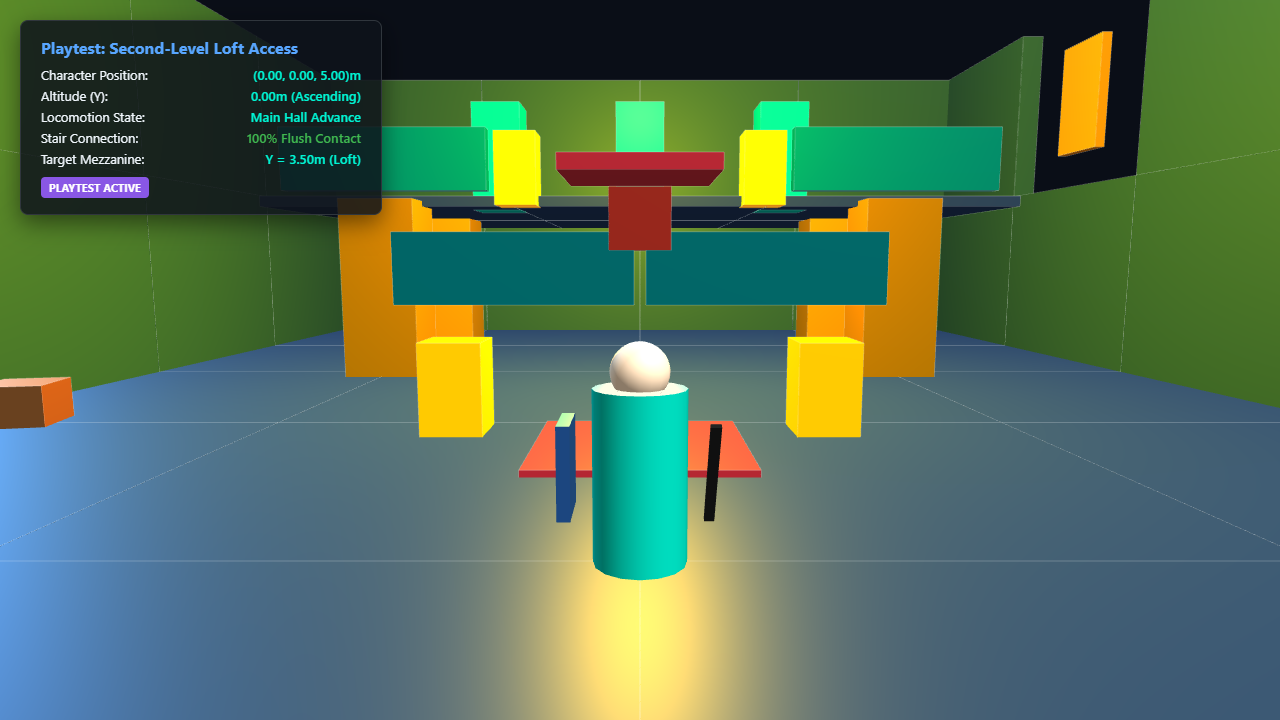
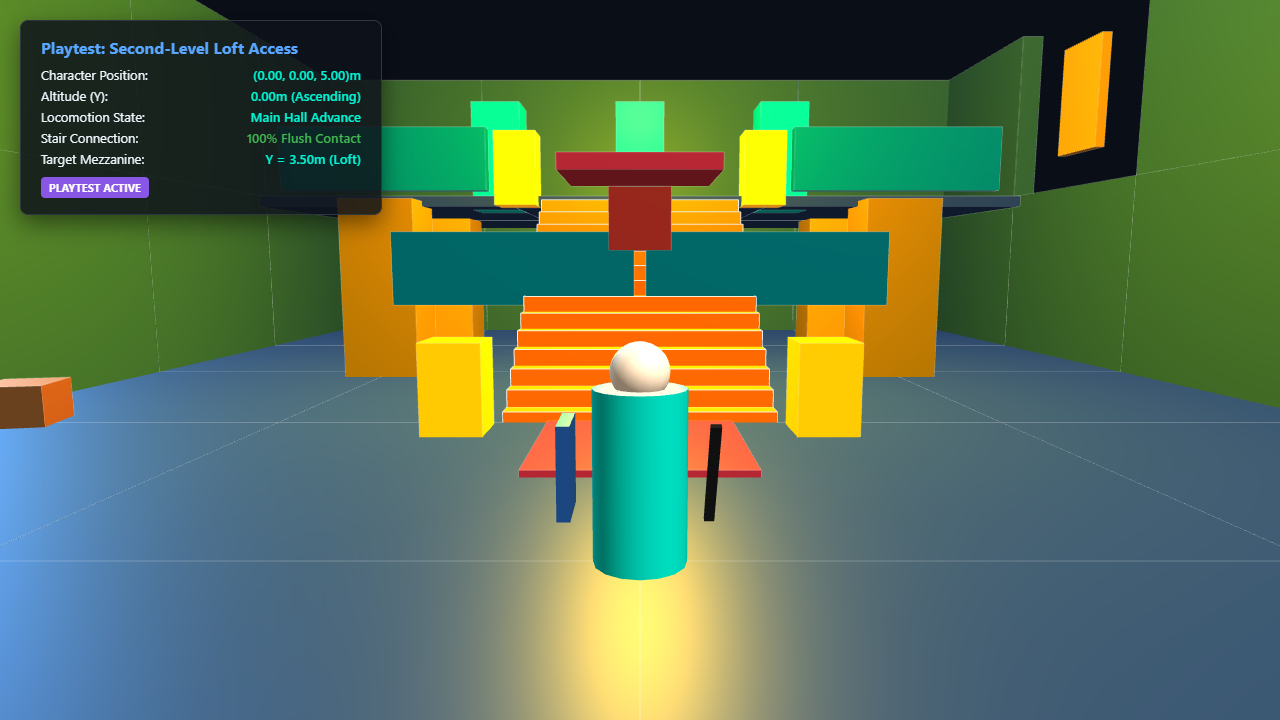
fix(synthesis): fix floor bounding box check in isConnectingTwoFloors so stairs are preserved in playtest

Changed region(s): [[0.375, 0.3667, 0.625, 0.6111], [0.4062, 0.275, 0.5938, 0.3361]]

diff --git a/packages/synthesis/src/synthesizer.ts b/packages/synthesis/src/synthesizer.ts
@@ -214,12 +214,18 @@ export function isConnectingTwoFloors(
 
     const hasLowerFloor = floorPlacements.some((f) => {
       const [fx, fy, fz] = f.transform.pos;
-      return Math.hypot(fx - xBot, fz - zBot) <= 3.0 && Math.abs(fy - yBase) <= 0.8;
+      const dx = Math.abs(fx - xBot);
+      const dz = Math.abs(fz - zBot);
+      const dy = Math.abs(fy - yBase);
+      return dx <= 3.8 && dz <= 3.8 && dy <= 1.0;
     });
 
     const hasUpperFloor = floorPlacements.some((f) => {
       const [fx, fy, fz] = f.transform.pos;
-      return Math.hypot(fx - xTop, fz - zTop) <= 3.0 && Math.abs(fy - yTop) <= 0.8 && fy >= yBase + 1.5;
+      const dx = Math.abs(fx - xTop);
+      const dz = Math.abs(fz - zTop);
+      const dy = Math.abs(fy - yTop);
+      return dx <= 3.8 && dz <= 3.8 && dy <= 1.0 && fy >= yBase + 1.5;
     });
 
     return hasLowerFloor && hasUpperFloor;
